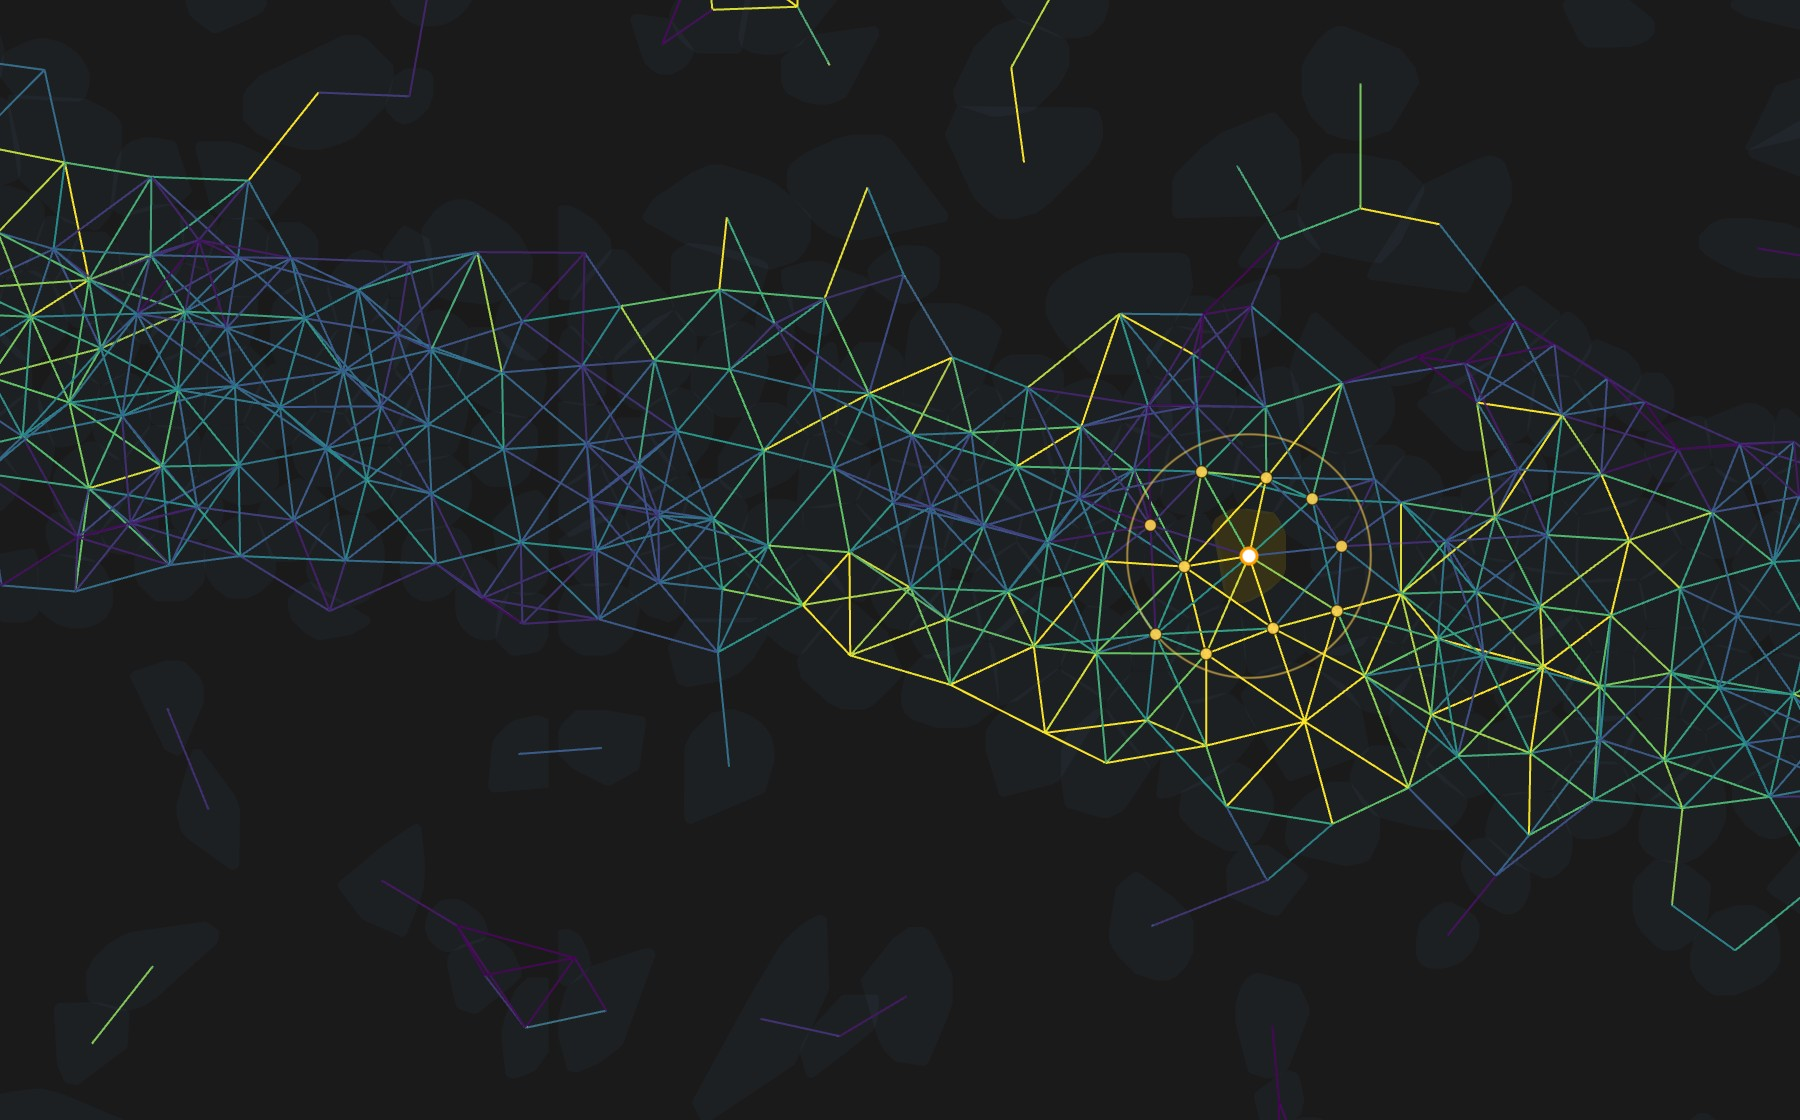
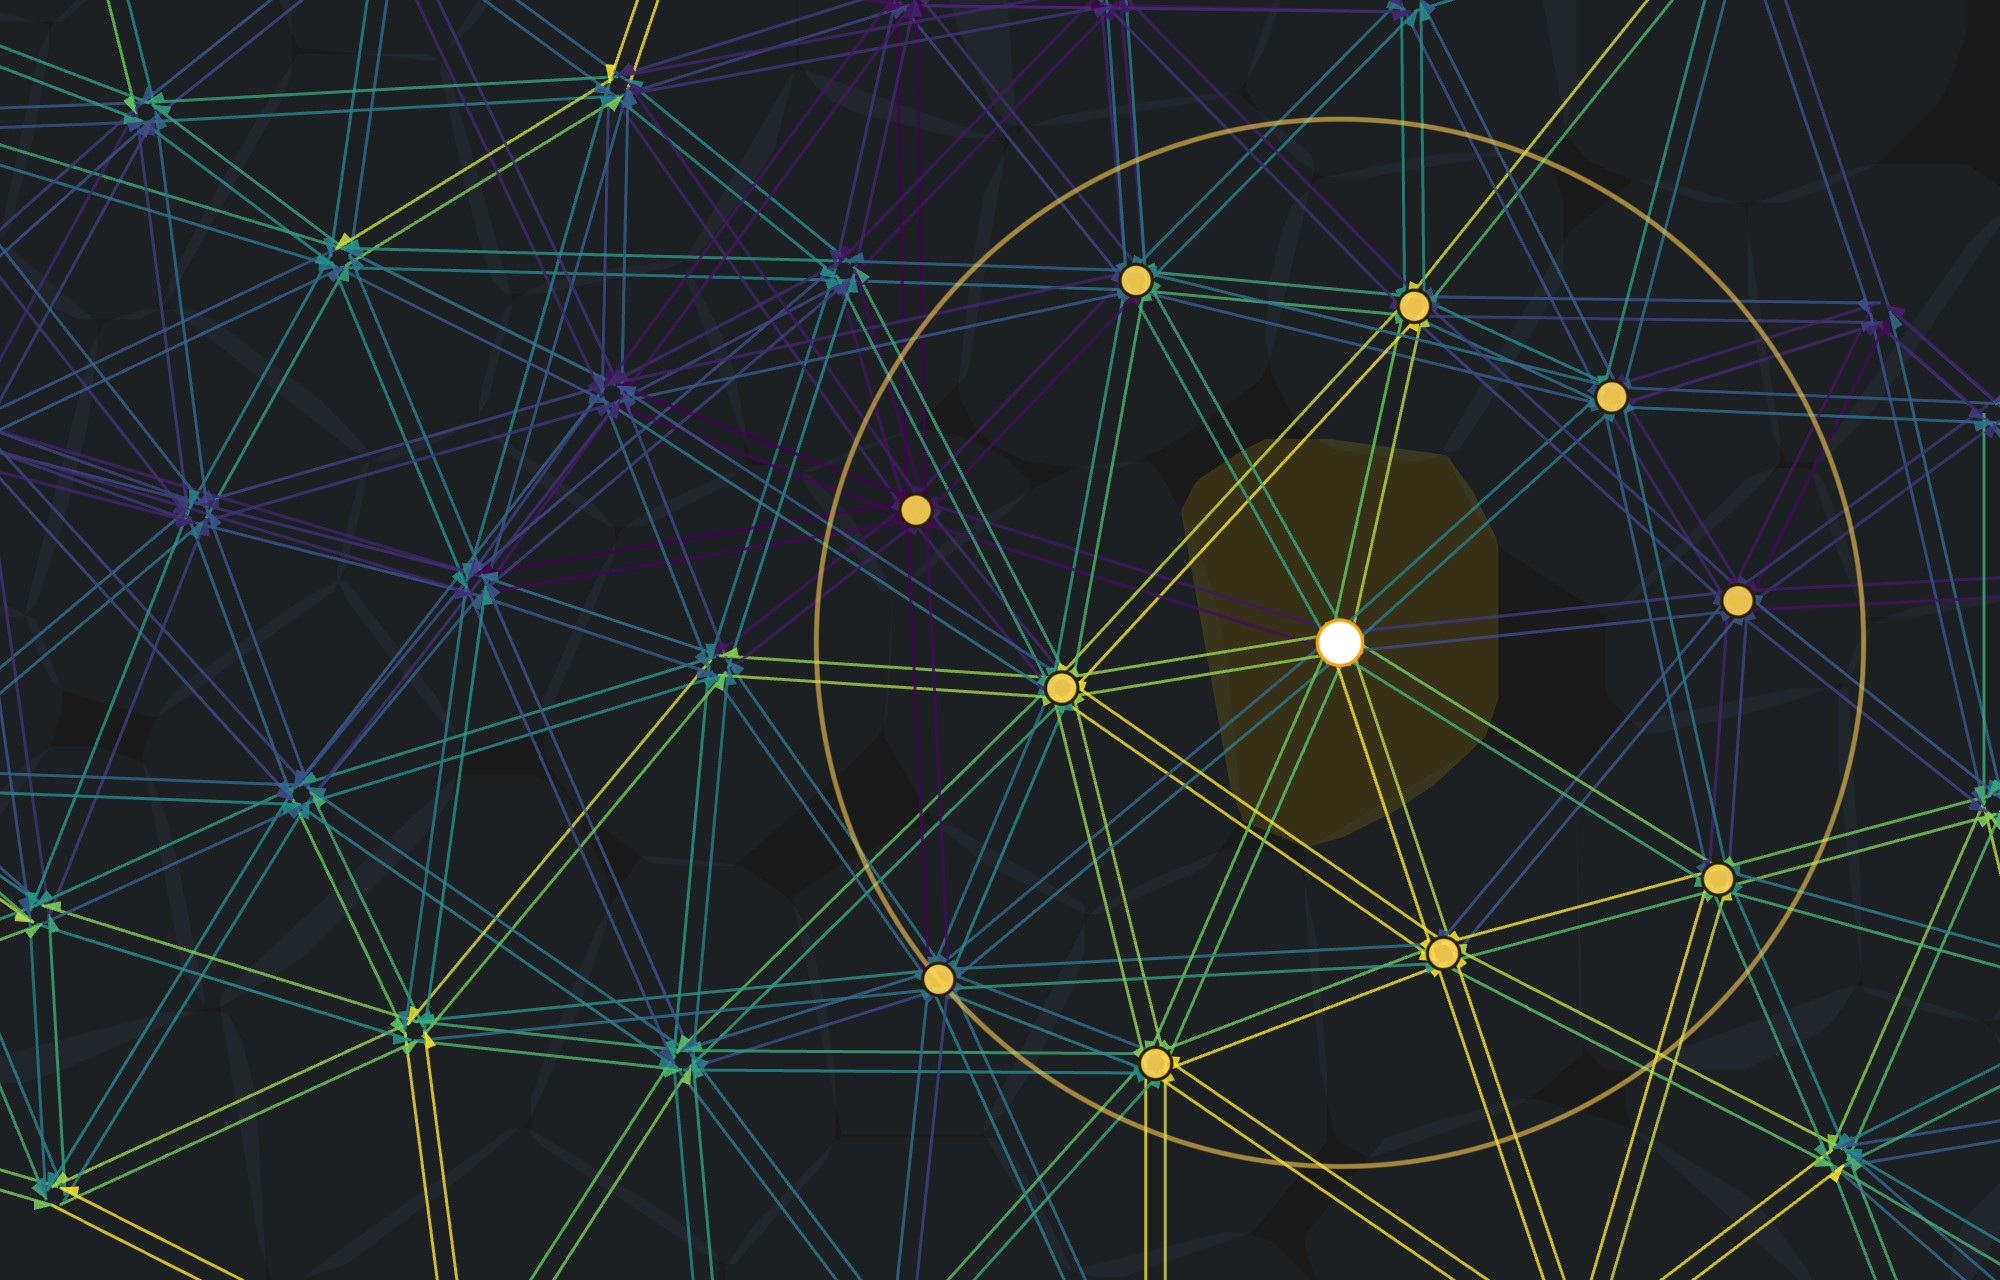
Worked examples: neighbourhood figure zoomed to the cell, with offset harpoon edges and no tissue graph

diff --git a/docs/vignettes.html b/docs/vignettes.html
@@ -189,14 +189,15 @@ with, how far they reach, and which mechanisms dominate across those edges.</p>
   <li>With the settings from example 1, zoom into the hippocampus with the mouse wheel until single cells are clear.</li>
   <li>Click a cell in the pyramidal layer (a plain click, no <kbd>Shift</kbd>). The <strong>Cell Info</strong> block at the foot of the sidebar fills with its id, position and metadata.</li>
   <li>Click <span class="ui">show local neighbourhood</span> at the bottom of that block.</li>
+  <li>Zoom in once more, until the cell and its neighbours fill the view. Untick <span class="ui">Tissue Graph</span>, raise <span class="ui">offset</span> to 3 and choose <span class="ui">Harpoon</span>, so each pair of cells shows its two directions as separate half-arrows.</li>
 </ol>
 <figure>
   <img src="img/vignettes/ex2_hippocampus.jpg" alt="Zoomed view of the mouse hippocampus: the dentate gyrus and CA pyramidal layer drawn as dense bands of scored edges, with sparse edges elsewhere">
   <figcaption><strong>2a · The hippocampus at cell resolution.</strong> Same settings as figure 1b. The two bands are the dentate gyrus granule layer (upper) and the CA pyramidal layer (lower); the midline structure at left is the third ventricle region. At this zoom the summed-score colouring separates the cell layers from the neuropil around them.</figcaption>
 </figure>
 <figure>
-  <img src="img/vignettes/ex2_neighbourhood.jpg" alt="Close view of one selected cell drawn in white with ten connected neighbours marked in amber and an amber circle enclosing them, within the pyramidal layer">
-  <figcaption><strong>2b · One cell's local neighbourhood.</strong> The selected cell in white; its ten connected neighbours in amber; the enclosing radius, 19.5 µm, as a circle. The amber points are the honest answer: connectivity is not isotropic, and the circle contains cells this one is not connected to.</figcaption>
+  <img src="img/vignettes/ex2_neighbourhood.jpg" alt="Close view of one selected cell in white, ten connected neighbours in amber inside an amber circle, and the surrounding edges drawn as paired offset lines with harpoon arrowheads">
+  <figcaption><strong>2b · One cell's local neighbourhood.</strong> The selected cell in white; its ten connected neighbours in amber; the enclosing radius, 19.5 µm, as a circle. Every edge is drawn twice, once per direction, offset to its own left with a harpoon head, so A→B and B→A read like a chemistry equilibrium arrow and can carry different colours. The amber points are the honest answer: connectivity is not isotropic, and the circle contains cells this one is not connected to.</figcaption>
 </figure>
 <div class="callout note"><strong class="label">What the Cell Info block said for this cell</strong>
 <pre style="background:#0f172a;color:#e2e8f0;padding:12px 14px;border-radius:6px;font-size:.82rem;line-height:1.5;margin:8px 0 0">cell_id        21_213
